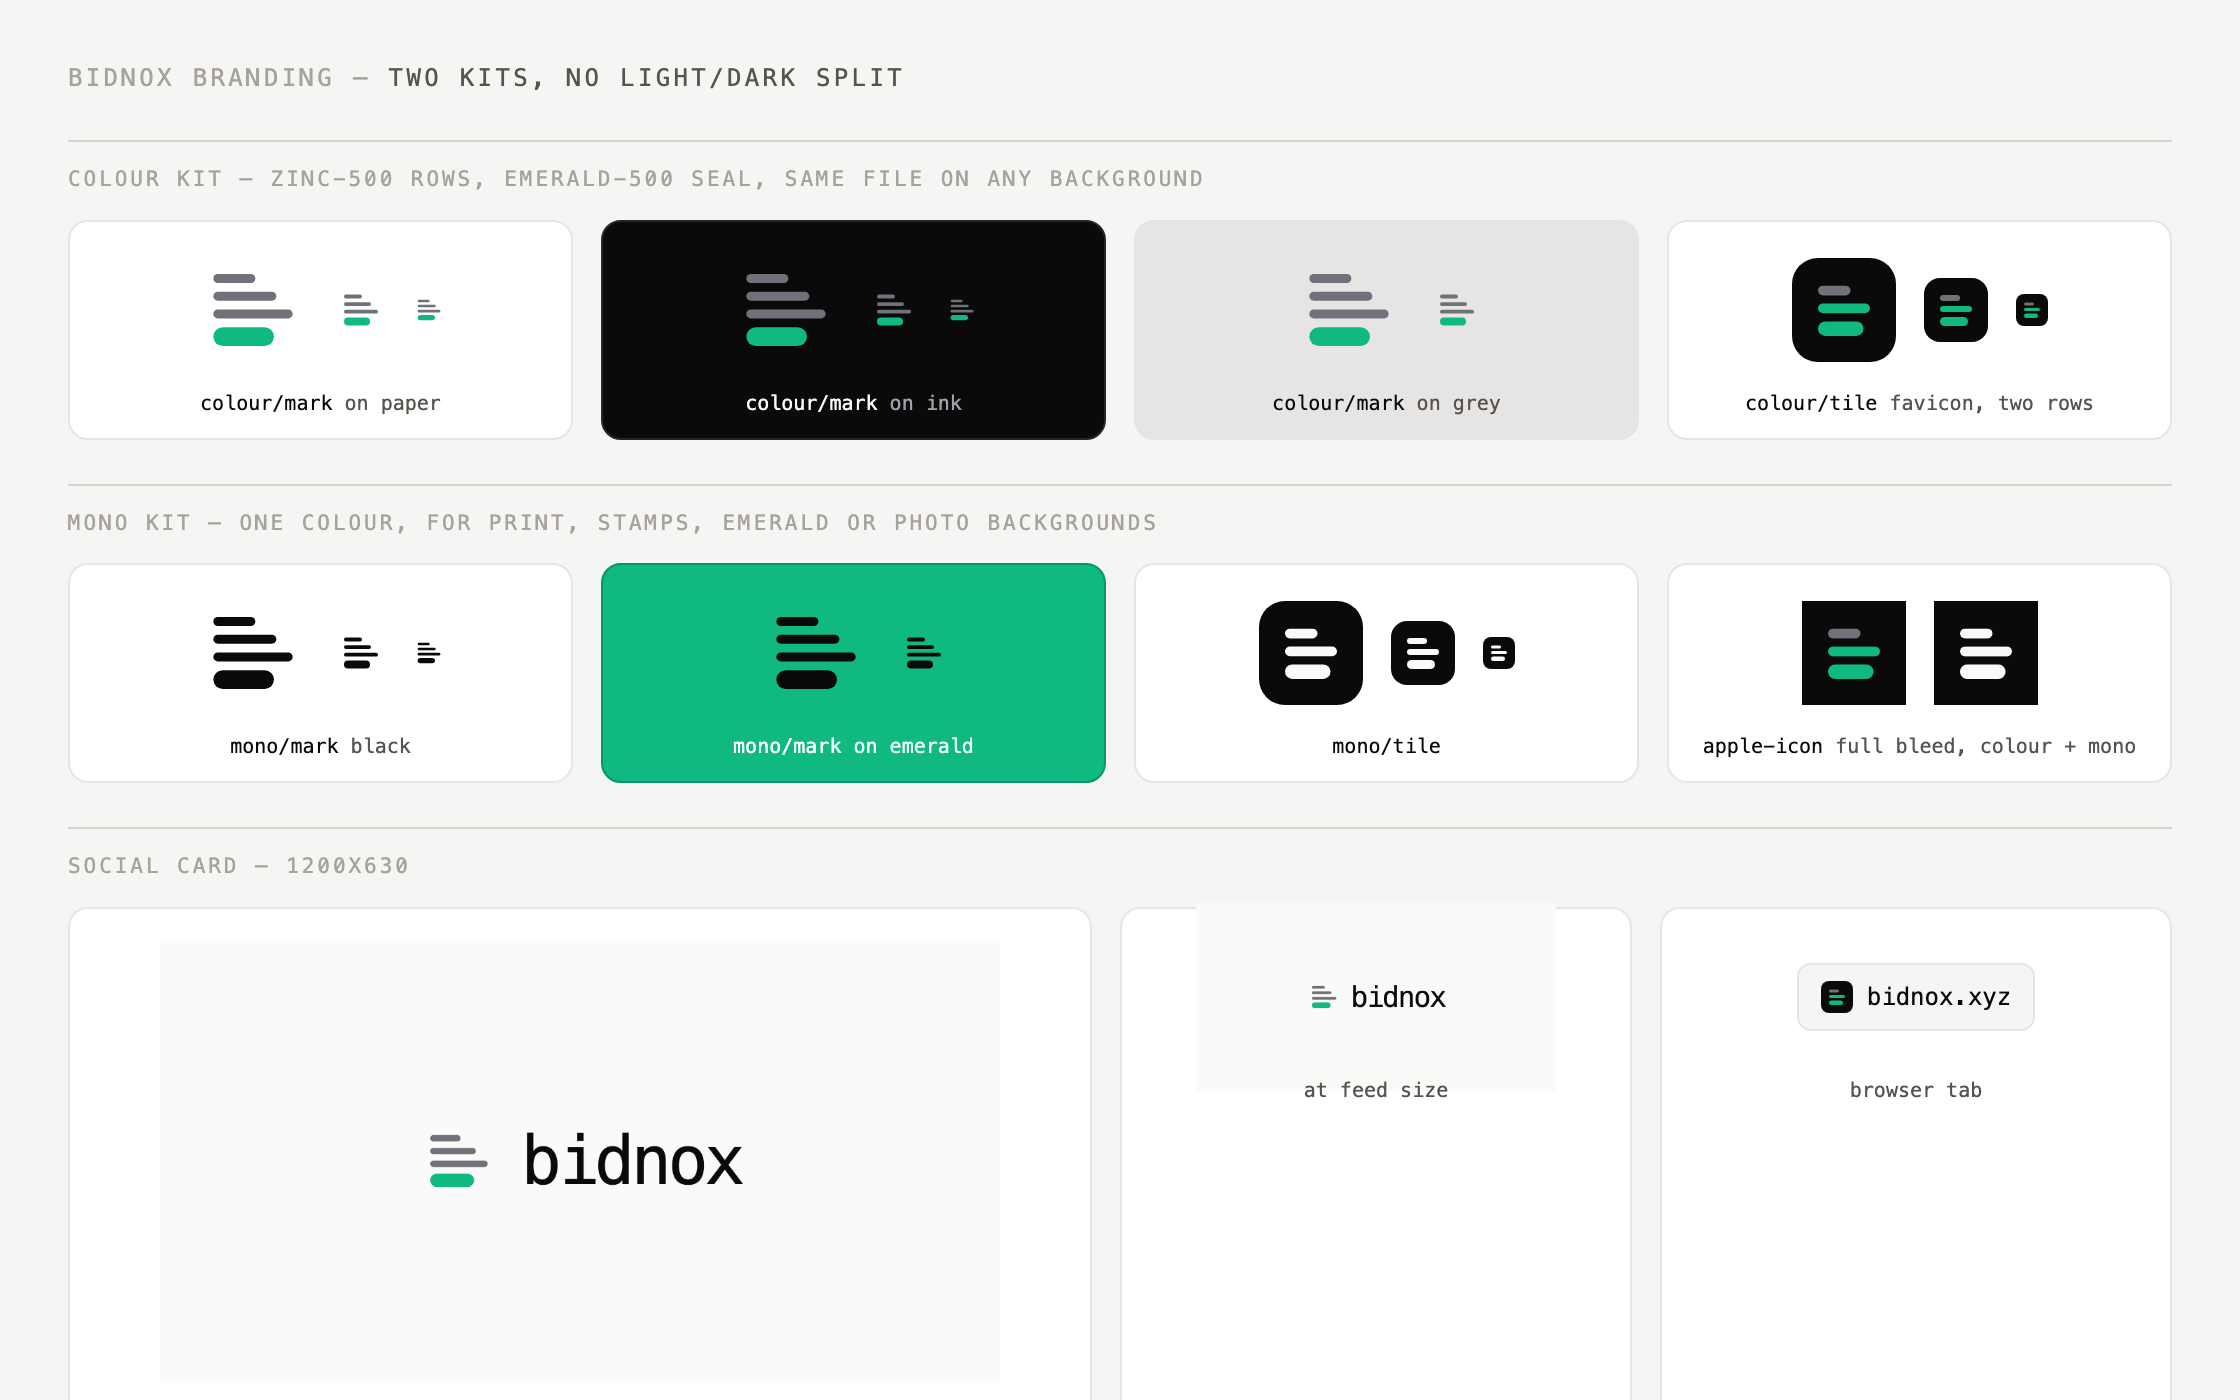
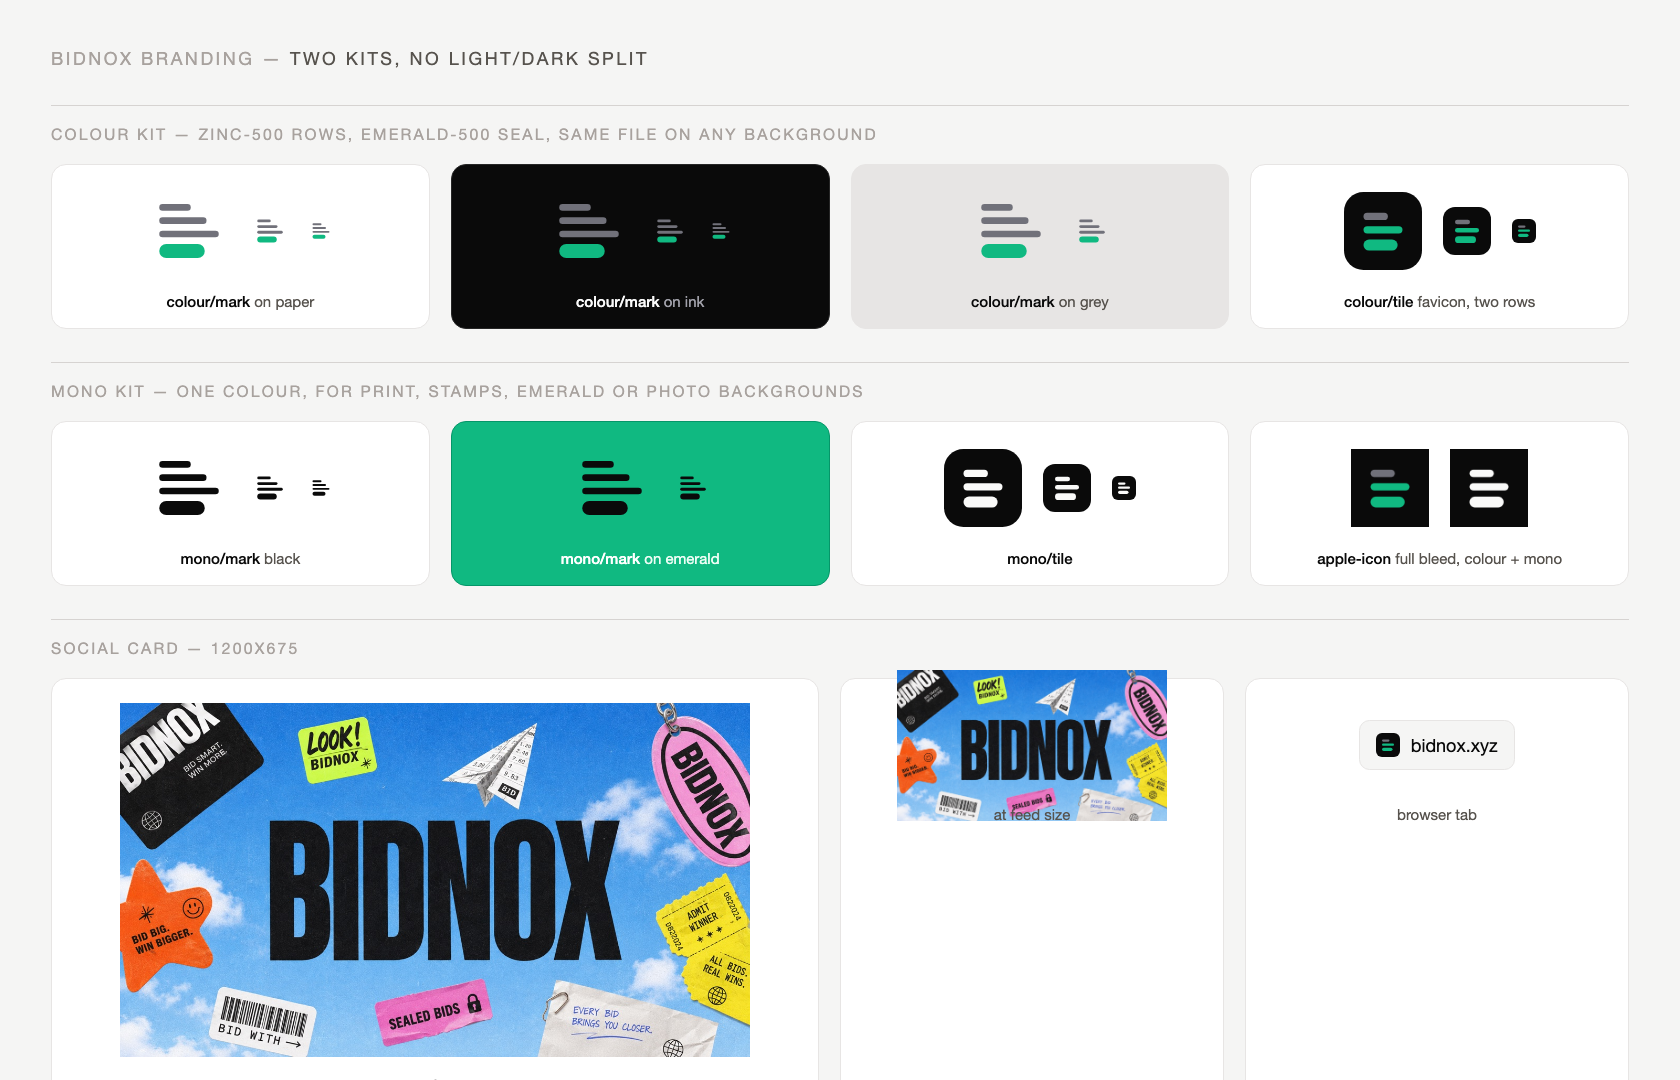
feat: use supplied og image, drop mono font

diff --git a/apps/app/components/logo.tsx b/apps/app/components/logo.tsx
@@ -49,7 +49,7 @@ export function Logo({
   return (
     <div className={cn("flex items-center gap-2", className)} {...props}>
       <LogoMark mono={mono} />
-      <span className="font-mono text-base font-medium tracking-tighter lowercase">
+      <span className="text-base font-extrabold tracking-tight uppercase">
         bidnox
       </span>
       <span className="sr-only">Bidnox</span>

diff --git a/apps/landing/components/logo.tsx b/apps/landing/components/logo.tsx
@@ -49,7 +49,7 @@ export function Logo({
   return (
     <div className={cn("flex items-center gap-2", className)} {...props}>
       <LogoMark mono={mono} />
-      <span className="font-mono text-base font-medium tracking-tighter lowercase">
+      <span className="text-base font-extrabold tracking-tight uppercase">
         bidnox
       </span>
       <span className="sr-only">Bidnox</span>

diff --git a/apps/app/app/layout.tsx b/apps/app/app/layout.tsx
@@ -23,7 +23,7 @@ export default function RootLayout({
     <html
       lang="en"
       suppressHydrationWarning
-      className={cn("antialiased", "font-mono", inter.variable, interHeading.variable, geistMono.variable)}
+      className={cn("antialiased", inter.variable, interHeading.variable, geistMono.variable)}
     >
       <body>
         <ThemeProvider>{children}</ThemeProvider>

diff --git a/apps/landing/app/layout.tsx b/apps/landing/app/layout.tsx
@@ -23,7 +23,7 @@ export default function RootLayout({
     <html
       lang="en"
       suppressHydrationWarning
-      className={cn("antialiased", "font-mono", inter.variable, interHeading.variable, geistMono.variable)}
+      className={cn("antialiased", inter.variable, interHeading.variable, geistMono.variable)}
     >
       <body>
         <ThemeProvider>{children}</ThemeProvider>

diff --git a/packages/site-config/src/sites.ts b/packages/site-config/src/sites.ts
@@ -19,9 +19,9 @@ const summary =
   "Bid on invoices without revealing your numbers. Amounts stay encrypted until settlement."
 
 const ogImage = {
-  url: "/og.png",
+  url: "/og.jpg",
   width: 1200,
-  height: 630,
+  height: 675,
   alt: `${brand.name}, private invoice bidding`,
 }
 

diff --git a/apps/app/app/globals.css b/apps/app/app/globals.css
@@ -237,6 +237,6 @@
     font-family: var(--font-mono);
     }
   html {
-    @apply font-sans font-mono;
+    @apply font-sans;
     }
 }

diff --git a/apps/landing/app/globals.css b/apps/landing/app/globals.css
@@ -237,6 +237,6 @@
     font-family: var(--font-mono);
     }
   html {
-    @apply font-sans font-mono;
+    @apply font-sans;
     }
 }

diff --git a/branding/README.md b/branding/README.md
@@ -4,14 +4,14 @@ Invoice rows with the total sealed. The rows sit back in grey so the emerald sea
 the thing you look at.
 
 Two kits, no light/dark split. Every colour is chosen to read on paper **and** on ink,
-so one file covers both. There is no wordmark lockup file: the wordmark is set in mono
-type by the app, so it always matches the surrounding UI.
+so one file covers both. There is no wordmark lockup file: the app sets the wordmark in
+type, so it always matches the surrounding UI.
 
 ```
 branding/
   colour/   mark.svg  mark.png  tile.svg  tile.png  tile-bleed.svg  apple-icon.png
   mono/     mark.svg  mark.png  tile.svg  tile.png  tile-bleed.svg  apple-icon.png
-  social/   og.png
+  social/   og.jpg  og-source.png
   preview.png
 ```
 
@@ -40,10 +40,14 @@ mark sits on emerald, on a photo, or over video.
 | One colour, or on emerald / photos | `mono/mark.svg`, `mono/mark.png` |
 | Favicon, PWA, browser tab | `colour/tile.svg` &rarr; shipped as `apps/*/app/icon.svg` |
 | iOS home screen | `colour/apple-icon.png` (full bleed, no radius) |
-| Social cards | `social/og.png` |
+| Social cards | `social/og.jpg` |
 | Everything at a glance | `preview.png` |
 
-PNG sizes: marks 1024x1024 transparent, tiles 512x512, apple icons 180x180, og 1200x630.
+PNG sizes: marks 1024x1024 transparent, tiles 512x512, apple icons 180x180.
+
+The social card is `social/og.jpg`, 1200x675, served from both apps at `/og.jpg`. The
+master lives beside it as `social/og-source.png` at 1672x941; regenerate the jpg from it
+with `sips -s format jpeg -s formatOptions 86 --resampleHeightWidth 675 1200`.
 
 ## In the apps
 
